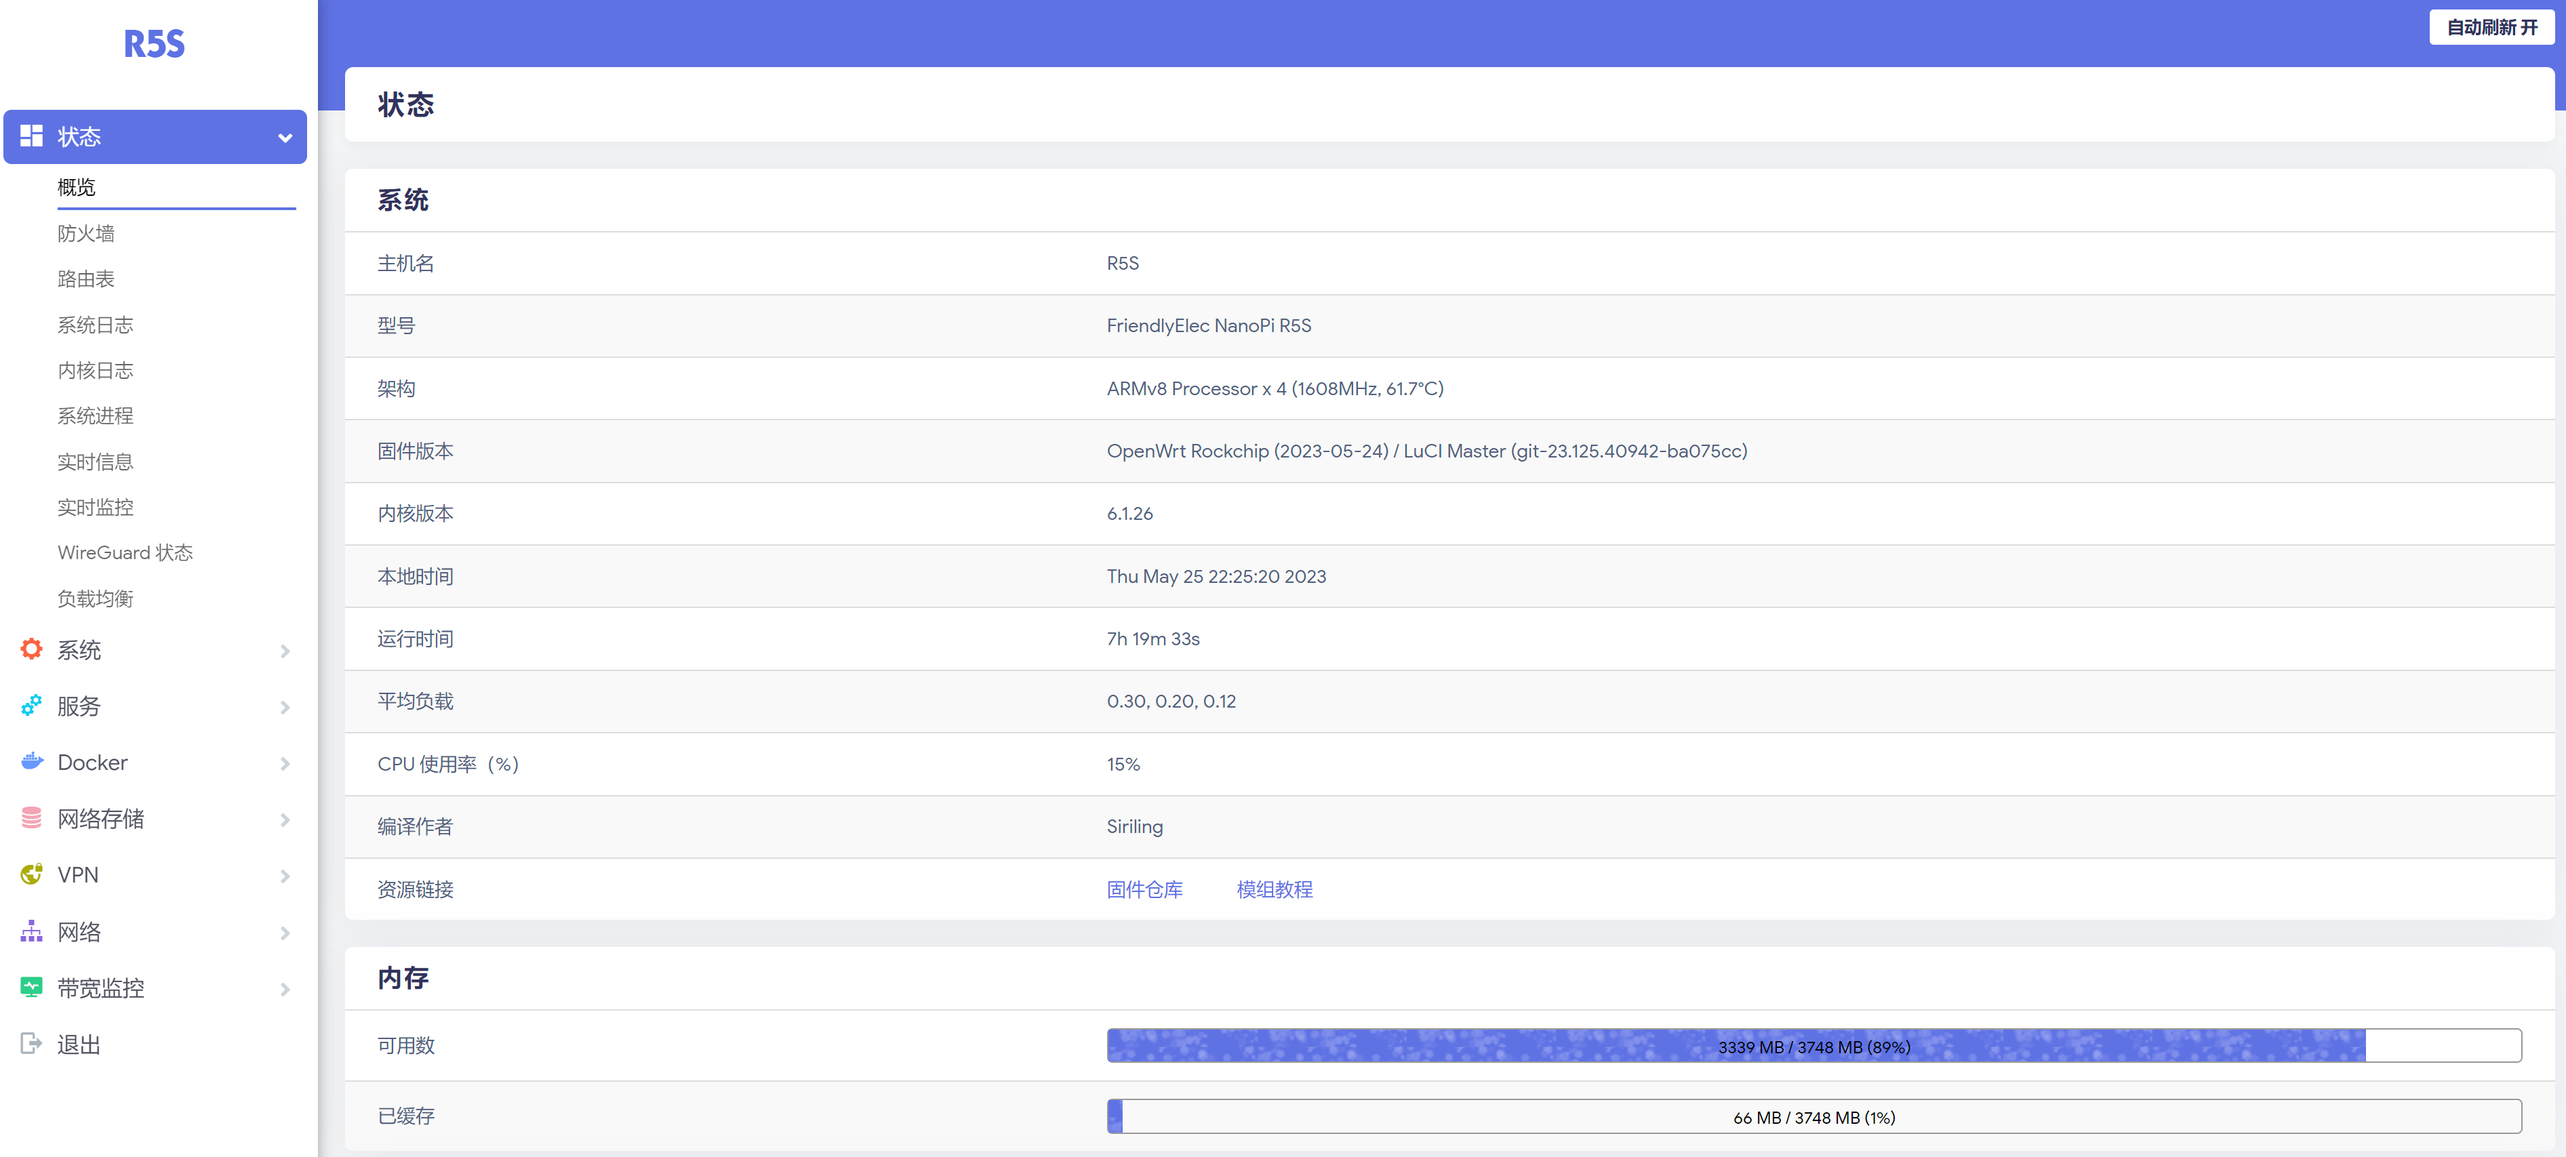
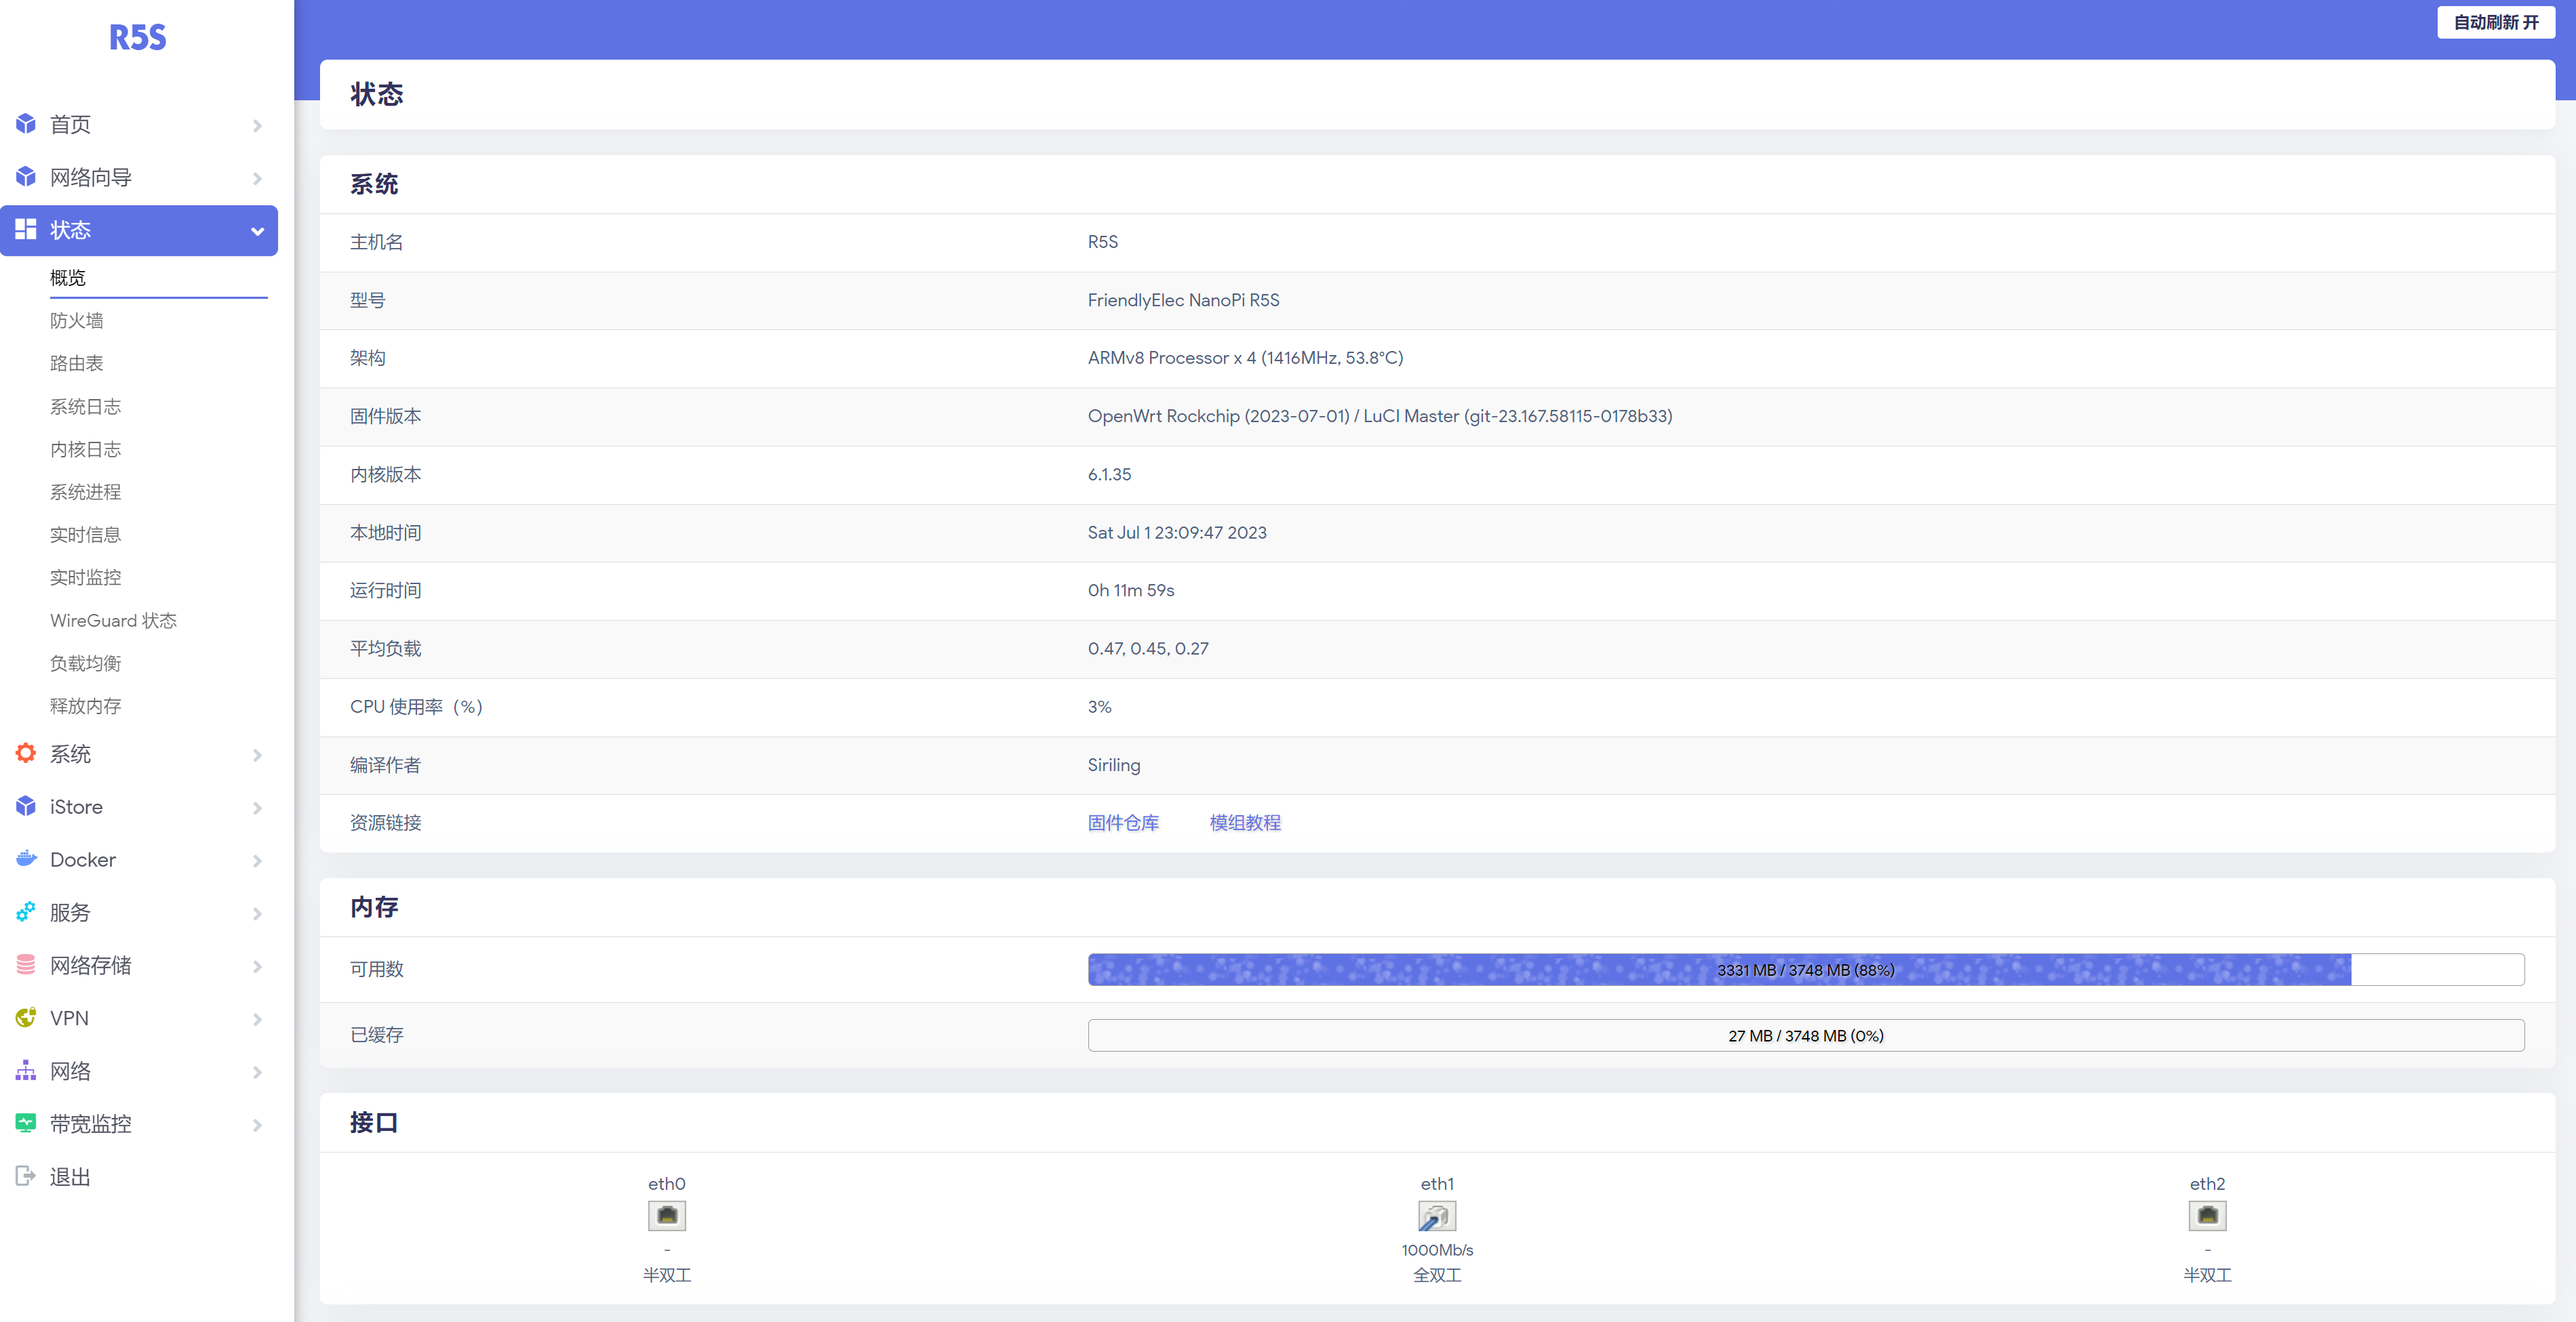
更新

diff --git a/README.md b/README.md
@@ -39,12 +39,12 @@
 
 ### 6.x内核
 
-- 完整版（full）：5G支持+网卡支持+docker+多个插件
-- 精简版（simplify）：5G支持+网卡支持+docker+OpenClash+AD Guardhome等少量常用插件
+- 完整版（full）：5G支持+短信插件+网卡支持+Docker+多个插件
+- 精简版（simplify）：5G支持+短信插件+网卡支持+docker+OpenClash+AD Guardhome等少量常用插件
 
 ### 5.x内核
 
-- 特制版（special）：信号插件+5G支持+网卡支持+docker+OpenClash+AD Guardhome等少量常用插件
+- 特制版（special）：信号插件+5G支持+网卡支持+Docker+OpenClash+AD Guardhome等少量常用插件
 
 ## 下载
 
@@ -59,6 +59,8 @@
 - 5G模组使用教程：[点击查看](https://blog.siriling.com:1212/2023/03/18/openwrt-5g-modem/)
 
 # 五、展示
+## 首页
+![overview](images/index.png)
 ## 概览
 ![overview](images/overview.png)
 ## 插件
